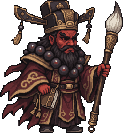
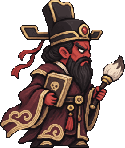
Phan Quan, Manh Ba theo thiet ke moi cua chu game, chuyen net pixel master
Claude-Session: https://claude.ai/code/session_01QQj46swudhcjrv1xLak4k8

diff --git a/game/index.html b/game/index.html
@@ -1738,7 +1738,7 @@ Object.assign(CHM,{"nguudau": {"w": 145, "h": 141, "ax": 72, "ay": 138, "src": "
 /* Hắc/Bạch Vô Thường: thiết kế ChatGPT, chuyển sang nét pixel game bằng PixelLab (24/11) */
 Object.assign(CHM,{"hacvo": {"w": 135, "h": 159, "ax": 67, "ay": 156, "src": "assets/hacvo_am.png", "proc": "walk", "anims": {"idle": {"fps": 8, "f": [[0, 0]]}, "run": {"fps": 8, "f": [[0, 0]]}, "attack": {"fps": 8, "f": [[0, 0]]}, "hit": {"fps": 8, "f": [[0, 0]]}, "death": {"fps": 8, "f": [[0, 0]]}}},"bachvo": {"w": 141, "h": 165, "ax": 70, "ay": 162, "src": "assets/bachvo_am.png", "proc": "walk", "anims": {"idle": {"fps": 8, "f": [[0, 0]]}, "run": {"fps": 8, "f": [[0, 0]]}, "attack": {"fps": 8, "f": [[0, 0]]}, "hit": {"fps": 8, "f": [[0, 0]]}, "death": {"fps": 8, "f": [[0, 0]]}}}});
 /* Diêm Vương, Phán Quan, Mạnh Bà: ảnh chủ game đưa (ChatGPT, 192x192 nền trong suốt, lưới pixel sạch) */
-Object.assign(CHM,{"diemvuong": {"w": 190, "h": 245, "ax": 95, "ay": 242, "src": "assets/diemvuong_am.png", "proc": "walk", "anims": {"idle": {"fps": 8, "f": [[0, 0]]}, "run": {"fps": 8, "f": [[0, 0]]}, "attack": {"fps": 8, "f": [[0, 0]]}, "hit": {"fps": 8, "f": [[0, 0]]}, "death": {"fps": 8, "f": [[0, 0]]}}},"phanquan": {"w": 123, "h": 133, "ax": 61, "ay": 130, "src": "assets/phanquan_am.png", "proc": "walk", "anims": {"idle": {"fps": 8, "f": [[0, 0]]}, "run": {"fps": 8, "f": [[0, 0]]}, "attack": {"fps": 8, "f": [[0, 0]]}, "hit": {"fps": 8, "f": [[0, 0]]}, "death": {"fps": 8, "f": [[0, 0]]}}},"manhba": {"w": 189, "h": 161, "ax": 70, "ay": 158, "src": "assets/manhba_am.png", "proc": "walk", "anims": {"idle": {"fps": 8, "f": [[0, 0]]}, "run": {"fps": 8, "f": [[0, 0]]}, "attack": {"fps": 8, "f": [[0, 0]]}, "hit": {"fps": 8, "f": [[0, 0]]}, "death": {"fps": 8, "f": [[0, 0]]}}}});
+Object.assign(CHM,{"diemvuong": {"w": 190, "h": 245, "ax": 95, "ay": 242, "src": "assets/diemvuong_am.png", "proc": "walk", "anims": {"idle": {"fps": 8, "f": [[0, 0]]}, "run": {"fps": 8, "f": [[0, 0]]}, "attack": {"fps": 8, "f": [[0, 0]]}, "hit": {"fps": 8, "f": [[0, 0]]}, "death": {"fps": 8, "f": [[0, 0]]}}},"phanquan": {"w": 125, "h": 148, "ax": 62, "ay": 145, "src": "assets/phanquan_am.png", "proc": "walk", "anims": {"idle": {"fps": 8, "f": [[0, 0]]}, "run": {"fps": 8, "f": [[0, 0]]}, "attack": {"fps": 8, "f": [[0, 0]]}, "hit": {"fps": 8, "f": [[0, 0]]}, "death": {"fps": 8, "f": [[0, 0]]}}},"manhba": {"w": 120, "h": 146, "ax": 60, "ay": 143, "src": "assets/manhba_am.png", "proc": "walk", "anims": {"idle": {"fps": 8, "f": [[0, 0]]}, "run": {"fps": 8, "f": [[0, 0]]}, "attack": {"fps": 8, "f": [[0, 0]]}, "hit": {"fps": 8, "f": [[0, 0]]}, "death": {"fps": 8, "f": [[0, 0]]}}}});
 // Nhân vật chính lấy từ gói Wuxia Vol.2 (cong_cu/wuxia_sheet.py): nam = Huyền Tiêu Kiếm Tông · Nam đệ tử,
 // nữ = Xích Diễm Đao Môn · Nữ đệ tử. Cả hai cầm kiếm cùng một kiểu khi đứng, đi và chém.
 // Thần Giáng Tôn Ngộ Không: sprite PixelLab (vẽ lại cỡ 144, khung xương có gậy + đuôi), đã kiểm từng frame.

diff --git a/nguon/pixellab/amgioi/gen_v3.py b/nguon/pixellab/amgioi/gen_v3.py
@@ -1,0 +1,29 @@
+import sys,base64,time,importlib.util
+from PIL import Image
+import numpy as np
+spec=importlib.util.spec_from_file_location('pl','/home/user/HoaThan/cong_cu/claude/pl.py');pl=importlib.util.module_from_spec(spec);spec.loader.exec_module(pl)
+M='/home/user/HoaThan/nguon/master_amgioi/';OUT='/home/user/HoaThan/nguon/pixellab/amgioi/sy4/'
+STYLE=("Convert this character into the exact pixel art style of the other bosses of this game: ultra-fine 1 px pixel grid, NO big blocky pixels, thin 1 px dark outline (not thick), rich shading with 4 to 5 tones per material, fabric folds and fine texture, muted dark palette, crisp hard edges. "
+       "KEEP THE DESIGN IDENTICAL: same face, hair, hat, robe, props, colours, chibi proportions and pose, side view facing right. ")
+J={'manhba':STYLE+"Details: old woman with silver-grey hair in a bun with gold hairpins and a white flower and green ribbon with jade tassel, angry red glowing eyes with a small red mark on the forehead, gold earring, teal-grey layered robe with cloud swirl patterns and gold tassel, holding a wooden ladle dripping green soup; a LARGE black iron cauldron with gold ring handle and white skull, green soup and curling green steam, standing next to her. Transparent background.",
+'phanquan':STYLE+"Details: black official hat with wide gold-trimmed wing ornaments and a red gem, red face with angry eyes, long black beard, flowing red ribbons, dark crimson robe with gold cloud-swirl trim and a red tassel, holding a large judge brush pen with white fur tip in one hand and a black book with a skull in the other. Transparent background."}
+TGT={'manhba':152,'phanquan':160}
+k=sys.argv[1];S=192;seed=int(sys.argv[2]) if len(sys.argv)>2 else 7
+im=Image.open(M+f'chatgpt_{k}_v3_goc.png').convert('RGBA');im=im.crop(im.getbbox())
+f=TGT[k]/im.height
+w=round(im.width*f)
+if w>S-8:f=(S-8)/im.width;w=S-8
+sm=im.resize((w,round(im.height*f)),Image.LANCZOS)
+a=np.array(sm);a[:,:,3]=np.where(a[:,:,3]>110,255,0);sm=Image.fromarray(a)
+cv=Image.new('RGBA',(S,S),(0,0,0,0));cv.alpha_composite(sm,((S-sm.width)//2,S-sm.height-4));cv.save(OUT+f'in_{k}.png')
+b64=base64.b64encode(open(OUT+f'in_{k}.png','rb').read()).decode()
+j=pl.req('POST','/edit-images-v2',{"method":"edit_with_text","edit_images":[{"image":{"type":"base64","base64":b64},"width":S,"height":S}],"image_size":{"width":S,"height":S},"description":J[k],"seed":seed,"no_background":True})
+jid=j.get('background_job_id');t0=time.time();r=j
+while jid and time.time()-t0<400:
+    time.sleep(6);r=pl.req('GET','/background-jobs/'+jid)
+    if r['status']=='completed':break
+    if r['status']=='failed':raise Exception(str(r)[:300])
+for i,x in enumerate(r['last_response'].get('images',[])):
+    x=x.get('base64') if isinstance(x,dict) else x
+    open(OUT+f'{k}_s{seed}_{i}.png','wb').write(base64.b64decode(x.split(',')[-1]))
+print(k,'ok')

diff --git a/CLAUDE.md b/CLAUDE.md
@@ -423,3 +423,6 @@ Chủ game gửi ảnh sảnh iPhone ngang (~664×307, trong trình duyệt nên
 ## Phán Quan, Mạnh Bà tạo lại từ master (24/11 đêm, chủ game ra lệnh: bỏ ảnh ChatGPT, lấy Hắc/Bạch Vô Thường, Ngưu Đầu, Mã Diện làm master)
 - `edit-images-v2`, đầu vào là sprite master (Phán Quan từ `hacvo`, Mạnh Bà từ `bachvo`), mô tả nhân vật mới + "same pixel art style/grid/outline/palette" (`nguon/pixellab/amgioi/gen_master.py`, kết quả `sy3/`, seed 7, 20 lượt). Thay `phanquan_am.png`, `manhba_am.png`. Bản ChatGPT 96×96 và bản `sy/`, `sy2/` bỏ. Ảnh so sánh: `nguon/tham_chieu/phanquan_manhba_tu_master_x3.png`. Chưa chụp kiểm độ nét ở 3 loại màn, chưa đăng artifact.
 - (24/11 đêm) **Vạc Mạnh Bà TỰ VẼ bằng code** (chủ game ra lệnh, không PixelLab, `cong_cu/claude/vac_manba.py`): xóa vạc nhỏ của bản PixelLab, vẽ vạc to (54×46 + chân, vành, nước xanh, đầu lâu, khói) đặt sát bà dưới muôi. `manhba_am.png` nay 189×161. Phán Quan (123×133) vẫn thấp hơn các trùm khác, chưa sửa: muốn cao hơn phải vẽ lại bằng PixelLab hoặc phóng hệ số lẻ (mềm nét).
+
+## Phán Quan, Mạnh Bà theo thiết kế MỚI của chủ game (24/11 đêm, bản chốt)
+- Chủ game gửi một ảnh chung 2 nhân vật chibi (Mạnh Bà tóc bạc cài trâm vàng, hoa trắng, mắt đỏ, vạc to có đầu lâu, muôi nhỏ nước xanh; Phán Quan mũ quan cánh vàng, mặt đỏ, râu đen, bút phán, sổ đầu lâu). Gốc: `nguon/master_amgioi/chatgpt_mb_pq_v3_goc.png`, tách `chatgpt_{manhba,phanquan}_v3_goc.png`. PixelLab `edit-images-v2` (đầu vào phóng mượt, `nguon/pixellab/amgioi/gen_v3.py`, kết quả `sy4/`, seed 7, 20 lượt) chuyển sang nét pixel mịn giữ nguyên thiết kế. `phanquan_am.png` 125×148, `manhba_am.png` 120×146 (thấp hơn Hắc/Bạch/Mã Diện 159–165 khoảng 10%). Thay các bản trước (`sy`, `sy2`, `sy3`, vạc tự vẽ `vac_manba.py` không còn dùng). Chưa chụp kiểm độ nét 3 loại màn, chưa đăng artifact.
